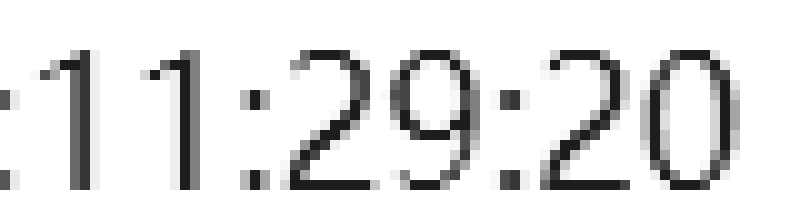
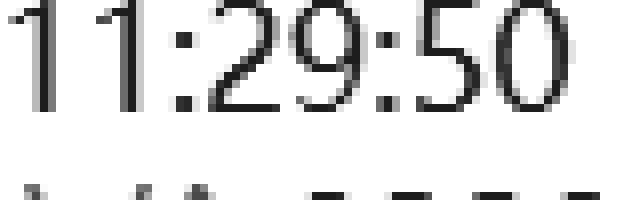
new

diff --git a/LyleApp.py b/LyleApp.py
@@ -20,16 +20,18 @@ class Config(object):
     # bid_button_pos = (1400, 670)                # 出价按钮区域
     # submit_button_pos = (1140, 825)             # 提价按钮区域    
 
+    px_region = (590, 680, 80, 25)             # 价格所在区域   (左边价格)
+    tm_region = (557, 659, 80, 25)             # 时间所在区域
+    target_px_input_pos = (1226, 630)           # 目标价格输入区域
+    bid_button_pos = (1410, 630)                # 出价按钮区域
+    submit_button_pos = (1100, 800)             # 提价按钮区域
+
+    # 家里 已经调试成功
     # px_region = (600, 644, 80, 20)             # 价格所在区域   (左边价格)
-    # tm_region = (564, 617, 80, 20)             # 时间所在区域
-    # target_px_input_pos = (1226, 597)           # 目标价格输入区域
+    # tm_region = (567, 621, 80, 20)             # 时间所在区域
+    # target_px_input_pos = (1226, 600)           # 目标价格输入区域
     # bid_button_pos = (1410, 600)                # 出价按钮区域
-    # submit_button_pos = (1142, 756)             # 提价按钮区域
-    px_region = (600, 644, 80, 20)             # 价格所在区域   (左边价格)
-    tm_region = (567, 621, 80, 20)             # 时间所在区域
-    target_px_input_pos = (1226, 600)           # 目标价格输入区域
-    bid_button_pos = (1410, 600)                # 出价按钮区域
-    submit_button_pos = (1230, 756)             # 提价按钮区域
+    # submit_button_pos = (1230, 756)             # 提价按钮区域
 
     today_participants = 200779                 # 今天参拍人数
     today_licenses = 11391                      # 今天 放牌总量
@@ -188,28 +190,44 @@ class HPPage(object):
         df = self.data[(self.data.index <= cur_seconds) & (self.data.index >= 40)].copy()
         df = df - df.iloc[0]
         # print(df)
-        max_corr = None
-        col_name = None
-        corr_dict = {}
+        k = 3
+        
+        corr_infos = []
         for col in df.columns:
             if col == "today":
                 continue
             corr = df["today"].corr(df[col])
-            corr_dict[col] = corr
-            if corr != np.nan:
-                if max_corr is None or max_corr < corr:
-                    max_corr = corr
-                    col_name = col
-        # print(corr_dict)
-        print(col_name)
+            size = len(corr_infos)
+            if size == 0:
+                corr_infos.insert(0, (corr, col))
+            else:
+                for i in range(size):
+                    if i >= k:
+                        break
+                    else:
+                        if corr_infos[i][0] < corr:
+                            corr_infos.insert(i, (corr, col))
+                            break
+                        if i == size - 1:
+                            corr_infos.insert(size, (corr, col))
+                            break
+        print(corr_infos[:k])
+        col_name = corr_infos[0][1]
         # TODO
         # self.submit_seconds = 55
         self.submit_seconds = self.info_df[col_name]["submit_seconds"]
+        if self.submit_seconds == 0:
+            self.submit_seconds = 55
+        self.submit_seconds -= 0.1
         # TODO
         if self.cur_px is not None:
             # self.target_price = self.cur_px + 300
-            px_delta = self.data[col_name].iloc[-1] - self.data[col_name].iloc[cur_seconds]
-            self.target_price = self.cur_px + px_delta + 200
+            px_delta = 0
+            for i in range(k):
+                col_name = corr_infos[i][1]
+                px_delta += self.data[col_name].iloc[-1] - self.data[col_name].iloc[cur_seconds]
+            px_delta = int(int(px_delta/300) * 100)
+            self.target_price = self.cur_px + px_delta + 100
 
     def print(self):
         tm_str = None if self.cur_time is None else self.cur_time.time().strftime("%H:%M:%S")

diff --git a/ImgToStr.py b/ImgToStr.py
@@ -39,7 +39,10 @@ def run3():
 def run4():
     # region = (起始x, 起始y, 长, 宽)
     # price_img = auto.screenshot(region=(1440, 200, 100, 20))
-    price_img = auto.screenshot("xxx.png", region=(563, 617, 80, 20))
+    px_region = (590, 680, 80, 25)             # 价格所在区域   (左边价格)
+    #price_img = auto.screenshot("xxx.png", region=px_region)
+    tm_region = (557, 659, 80, 25)             # 时间所在区域
+    price_img = auto.screenshot("xxx.png", region=tm_region)
     gray = cv2.cvtColor(np.array(price_img), cv2.COLOR_BGR2GRAY)
     cv2.imwrite('edge.png', imutils.resize(gray, height=200))
     # cv2.imwrite('edge.png', gray)
